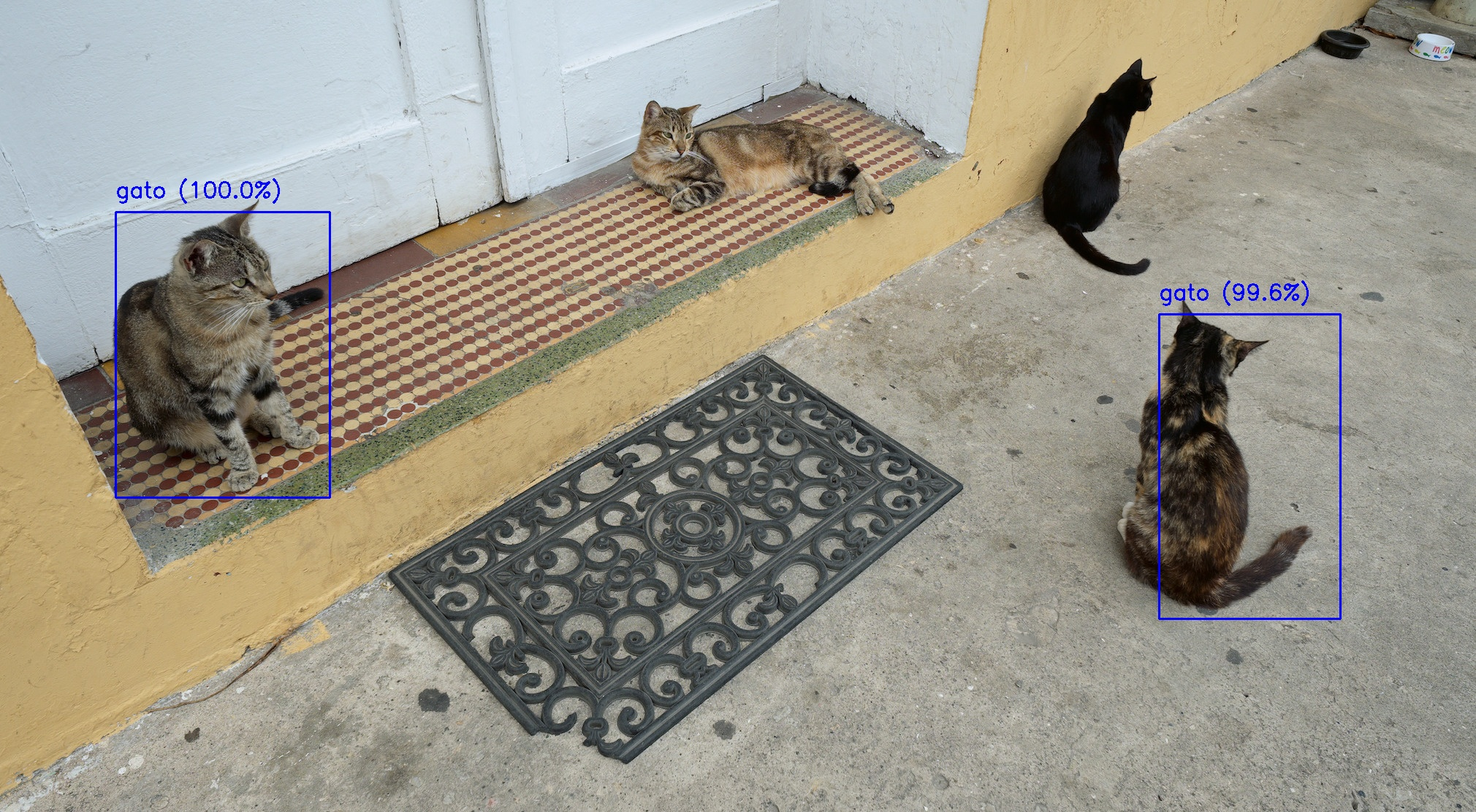
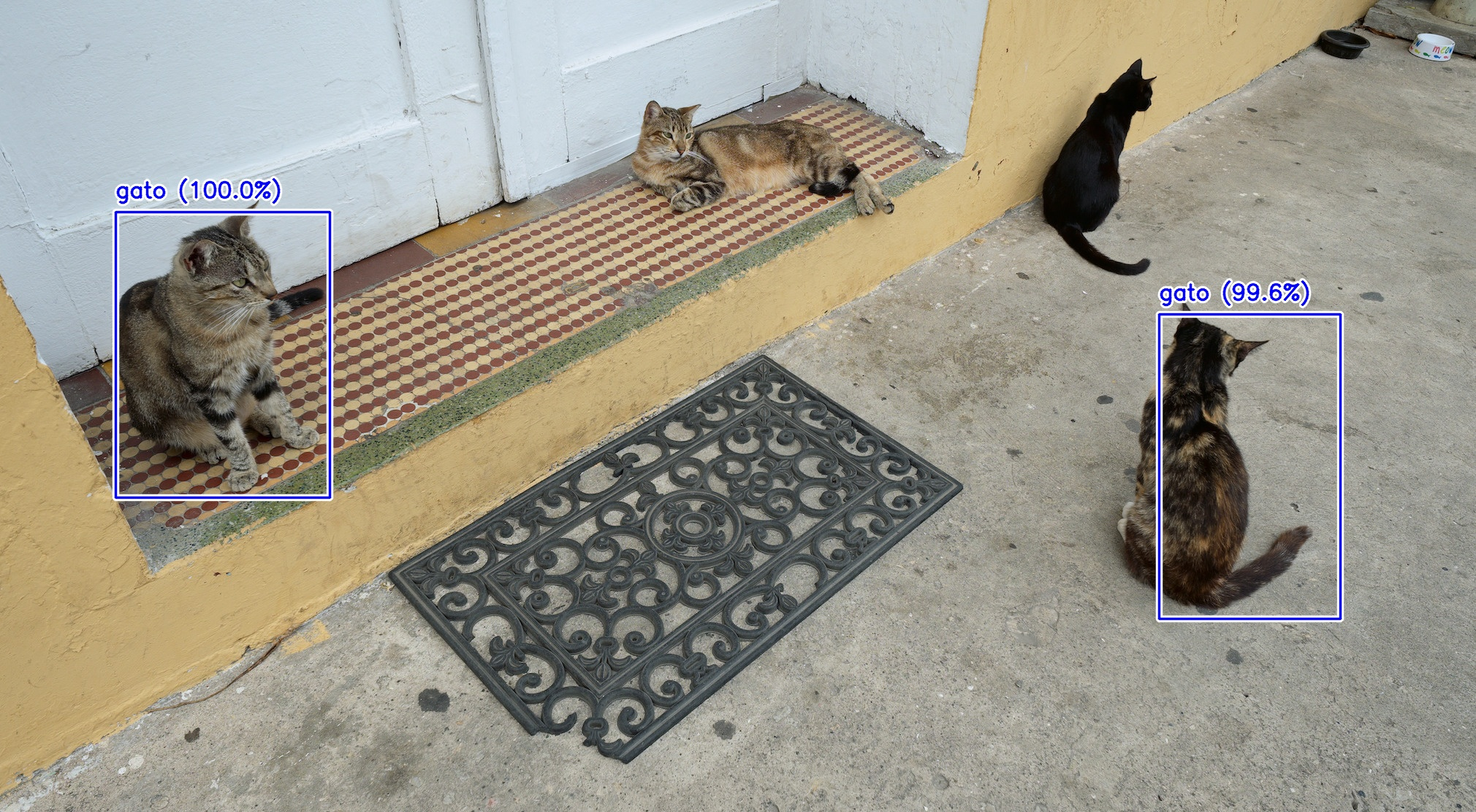
Improving visualizations. Adding more sample images.

Changed region(s): [[0.7797, 0.3363, 0.9356, 0.7644], [0.0624, 0.3363, 0.2495, 0.6421], [0.0624, 0.214, 0.2183, 0.2752]]

diff --git a/PyTorch/coco_instance_segmentation.py b/PyTorch/coco_instance_segmentation.py
@@ -16,7 +16,24 @@ def main():
 
     THRESHOLD = 0.75
 
-    LABELS = [
+    LABELS_EN = [
+        '__background__', 'person', 'bicycle', 'car', 'motorcycle', 'airplane',
+        'bus', 'train', 'truck', 'boat', 'traffic light', 'fire hydrant', 'N/A',
+        'stop sign', 'parking meter', 'bench', 'bird', 'cat', 'dog', 'horse',
+        'sheep', 'cow', 'elephant', 'bear', 'zebra', 'giraffe', 'N/A', 'backpack',
+        'umbrella', 'N/A', 'N/A', 'handbag', 'tie', 'suitcase', 'frisbee', 'skis',
+        'snowboard', 'sports ball', 'kite', 'baseball bat', 'baseball glove',
+        'skateboard', 'surfboard', 'tennis racket', 'bottle', 'N/A', 'wine glass',
+        'cup', 'fork', 'knife', 'spoon', 'bowl', 'banana', 'apple', 'sandwich',
+        'orange', 'broccoli', 'carrot', 'hot dog', 'pizza', 'donut', 'cake',
+        'chair', 'couch', 'potted plant', 'bed', 'N/A', 'dining table', 'N/A',
+        'N/A', 'toilet', 'N/A', 'tv', 'laptop', 'mouse', 'remote', 'keyboard',
+        'cell phone', 'microwave', 'oven', 'toaster', 'sink', 'refrigerator',
+        'N/A', 'book', 'clock', 'vase', 'scissors', 'teddy bear', 'hair drier',
+        'toothbrush'
+    ]
+
+    LABELS_ES = [
         '__background__', 'persona', 'bicicleta', 'coche', 'motocicleta', 'avión',
         'autobús', 'tren', 'camión', 'barco', 'semáforo', 'hidrante', 'N/A',
         'señal de stop', 'parquímetro', 'banco', 'ave', 'gato', 'perro', 'caballo',
@@ -34,8 +51,14 @@ def main():
         'secador de pelo', 'cepillo de dientes'
     ]
 
-    COLORS = [(0, 0, 255), (0, 255, 0), (255, 0, 0),
-              (0, 255, 255), (255, 255, 0), (255, 0, 255)]
+    LABELS = LABELS_ES
+
+    COLORS = [
+        ((  0,   0, 255), (255, 255, 255)),  # Red with white outline
+        ((  0, 255,   0), (  0,   0,   0)),  # Green with black outline
+        ((255,   0,   0), (255, 255, 255)),  # Blue with white outline
+        ((  0, 255, 255), (  0,   0,   0))   # Yellow with black outline
+    ]
 
     for input_filename in glob.iglob(r'resources/*.jpg'):
 
@@ -63,7 +86,7 @@ def main():
             if score < THRESHOLD:
                 continue
 
-            color = COLORS[i % len(COLORS)]
+            color, outline_color = COLORS[i % len(COLORS)]
 
             # Draw the mask.
             colored_mask = numpy.zeros_like(image)
@@ -71,12 +94,16 @@ def main():
             cv2.addWeighted(image, 1.0, colored_mask, 0.5, 0.0, image)
 
             # Draw the box.
-            #cv2.rectangle(image, box[0], box[1], color, 2)
+            #cv2.rectangle(image, box[0], box[1], outline_color, 8, cv2.LINE_AA)
+            #cv2.rectangle(image, box[0], box[1], color, 2, cv2.LINE_AA)
 
             # Draw the label and score.
             text = '%s (%.1f%%)' % (label, score * 100.0)
             cv2.putText(image, text, (box[0][0], box[0][1] - 20),
-                        cv2.FONT_HERSHEY_SIMPLEX, 1.0, color, 2)
+                        cv2.FONT_HERSHEY_SIMPLEX, 1.0, outline_color, 8,
+                        cv2.LINE_AA)
+            cv2.putText(image, text, (box[0][0], box[0][1] - 20),
+                        cv2.FONT_HERSHEY_SIMPLEX, 1.0, color, 2, cv2.LINE_AA)
 
         cv2.imwrite(output_filename, image)
 

diff --git a/OpenCV_DNN/objects_dnn.py b/OpenCV_DNN/objects_dnn.py
@@ -52,14 +52,19 @@ def main():
                 id = int(object[1])
                 label = labels[id - 1]
 
-                # Draw a blue rectangle around the object.
+                # Draw a white-outlined blue rectangle around the object.
                 cv2.rectangle(image, (x0, y0), (x1, y1),
-                              (255, 0, 0), 2)
+                              (255, 255, 255), 8, cv2.LINE_AA)
+                cv2.rectangle(image, (x0, y0), (x1, y1),
+                              (255, 0, 0), 2, cv2.LINE_AA)
 
                 # Draw the classification result and confidence.
                 text = '%s (%.1f%%)' % (label, confidence * 100.0)
                 cv2.putText(image, text, (x0, y0 - 20),
-                    cv2.FONT_HERSHEY_SIMPLEX, 1.0, (255, 0, 0), 2)
+                    cv2.FONT_HERSHEY_SIMPLEX, 1.0, (255, 255, 255), 8,
+                    cv2.LINE_AA)
+                cv2.putText(image, text, (x0, y0 - 20),
+                    cv2.FONT_HERSHEY_SIMPLEX, 1.0, (255, 0, 0), 2, cv2.LINE_AA)
 
         cv2.imwrite(output_filename, image)
 
